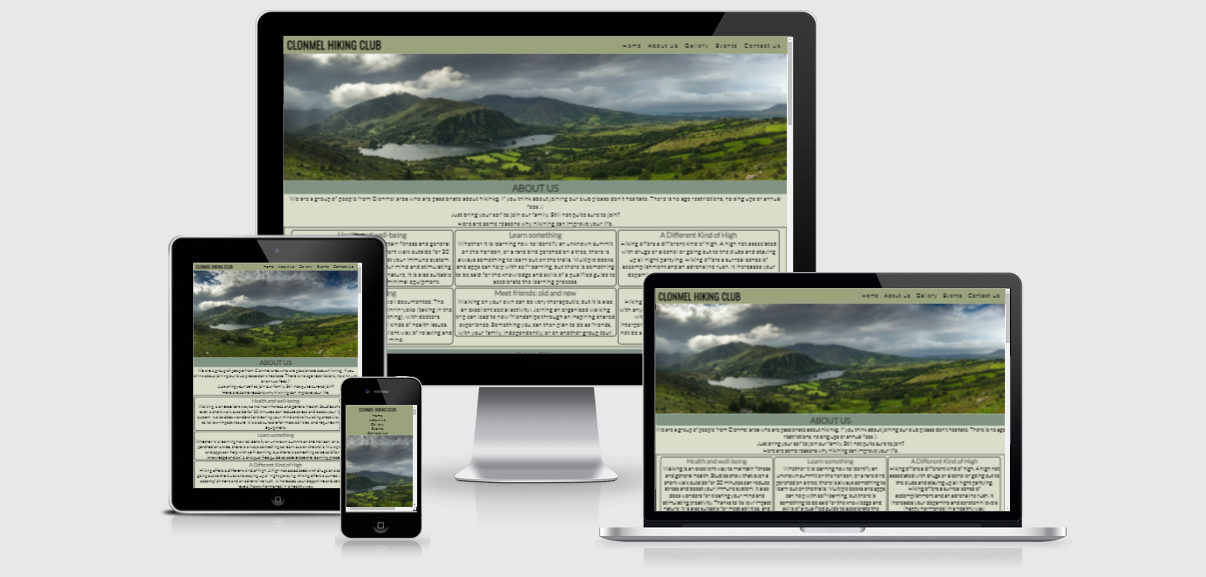
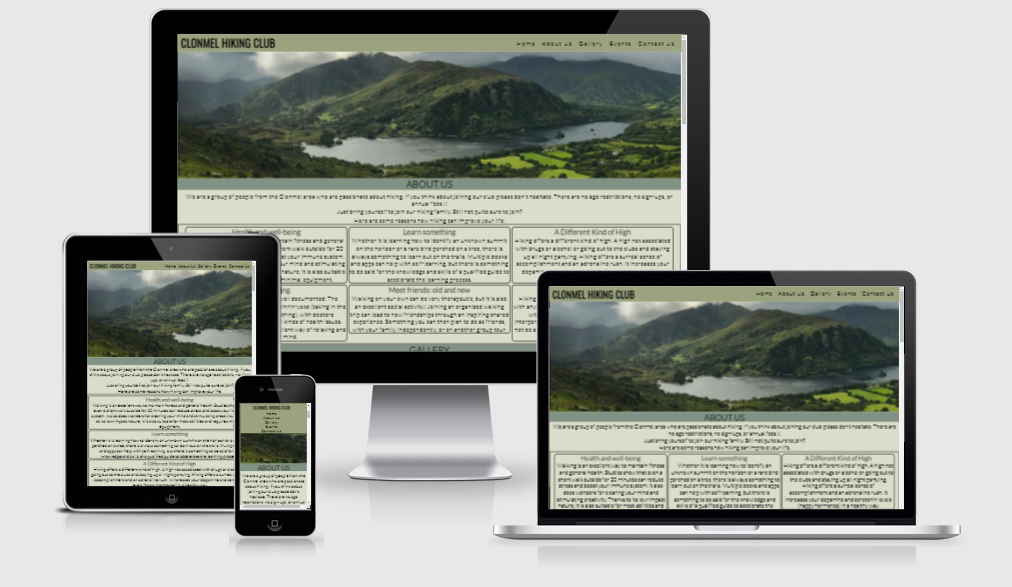
Two files replaced in docs folder

diff --git a/assets/css/style.css b/assets/css/style.css
@@ -50,7 +50,6 @@ header {
 #main-logo {
     width: 100%;
     height: 40rem;
-    /*background: url('../images/main-picture.webp') center center/cover no-repeat;*/
     background: url('../images/main-picture.jpg');
     background-repeat: no-repeat;
     background-size: auto;
@@ -88,7 +87,7 @@ header {
 /*About Us*/
 
 #about-us p {
-    padding: 1px;
+    padding: 1px 5px;
     text-align: center;
 }
 

diff --git a/README.md b/README.md
@@ -261,7 +261,7 @@
             Firefox
          </li>
          <li>
-            Safari
+            Opera
          </li>
          <li>
             Edge
@@ -363,7 +363,8 @@
    <ul>
       <li>Size all pictures were reduced to 600x400px.</li>
       <li>DPI was reduced from 300 to 72.</li>
-      <li>All pictures were converted from JPG to WEBP using WEBP Converter.</li>
+      <li>All pictures in gallery section were converted from JPG to WEBP using WEBP Converter.</li>
+      <li>The main picture is still in jpg format as after conversion its appearance was too dark therefore I decided not to change the format.</li>
    </ul>
    <li>All links to the programs that were used to complete the steps above can be found in the Frameworks, Libraries & Programs Used section of this document.</li>
 </ul>
